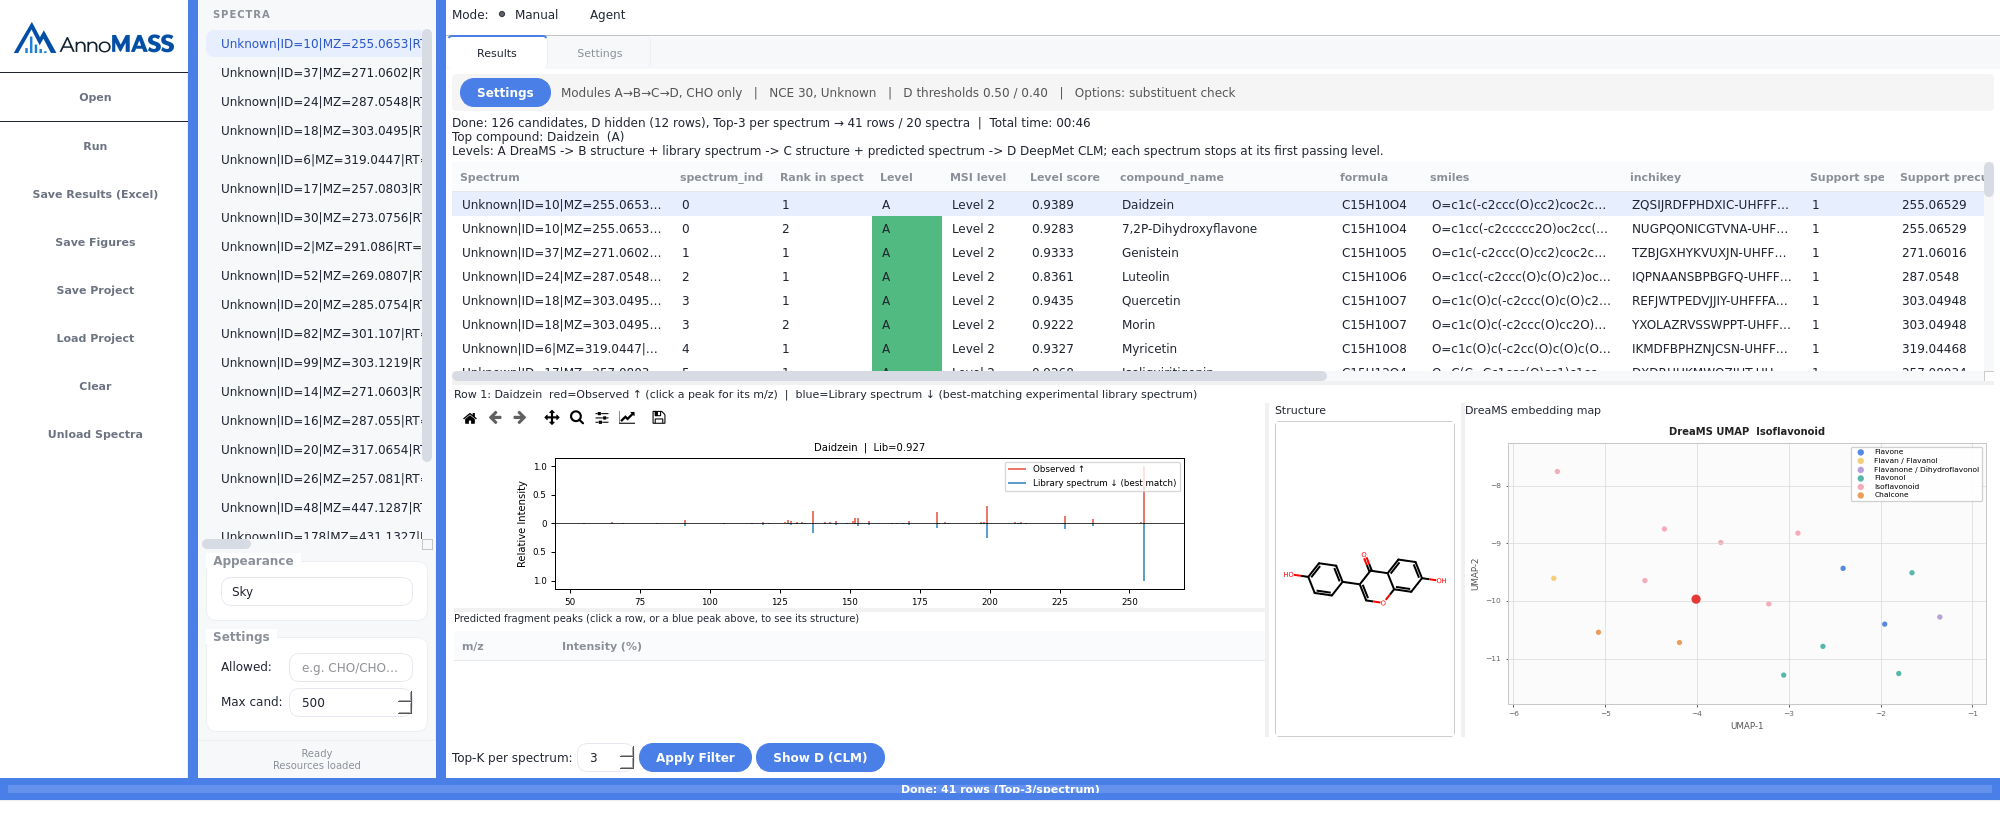
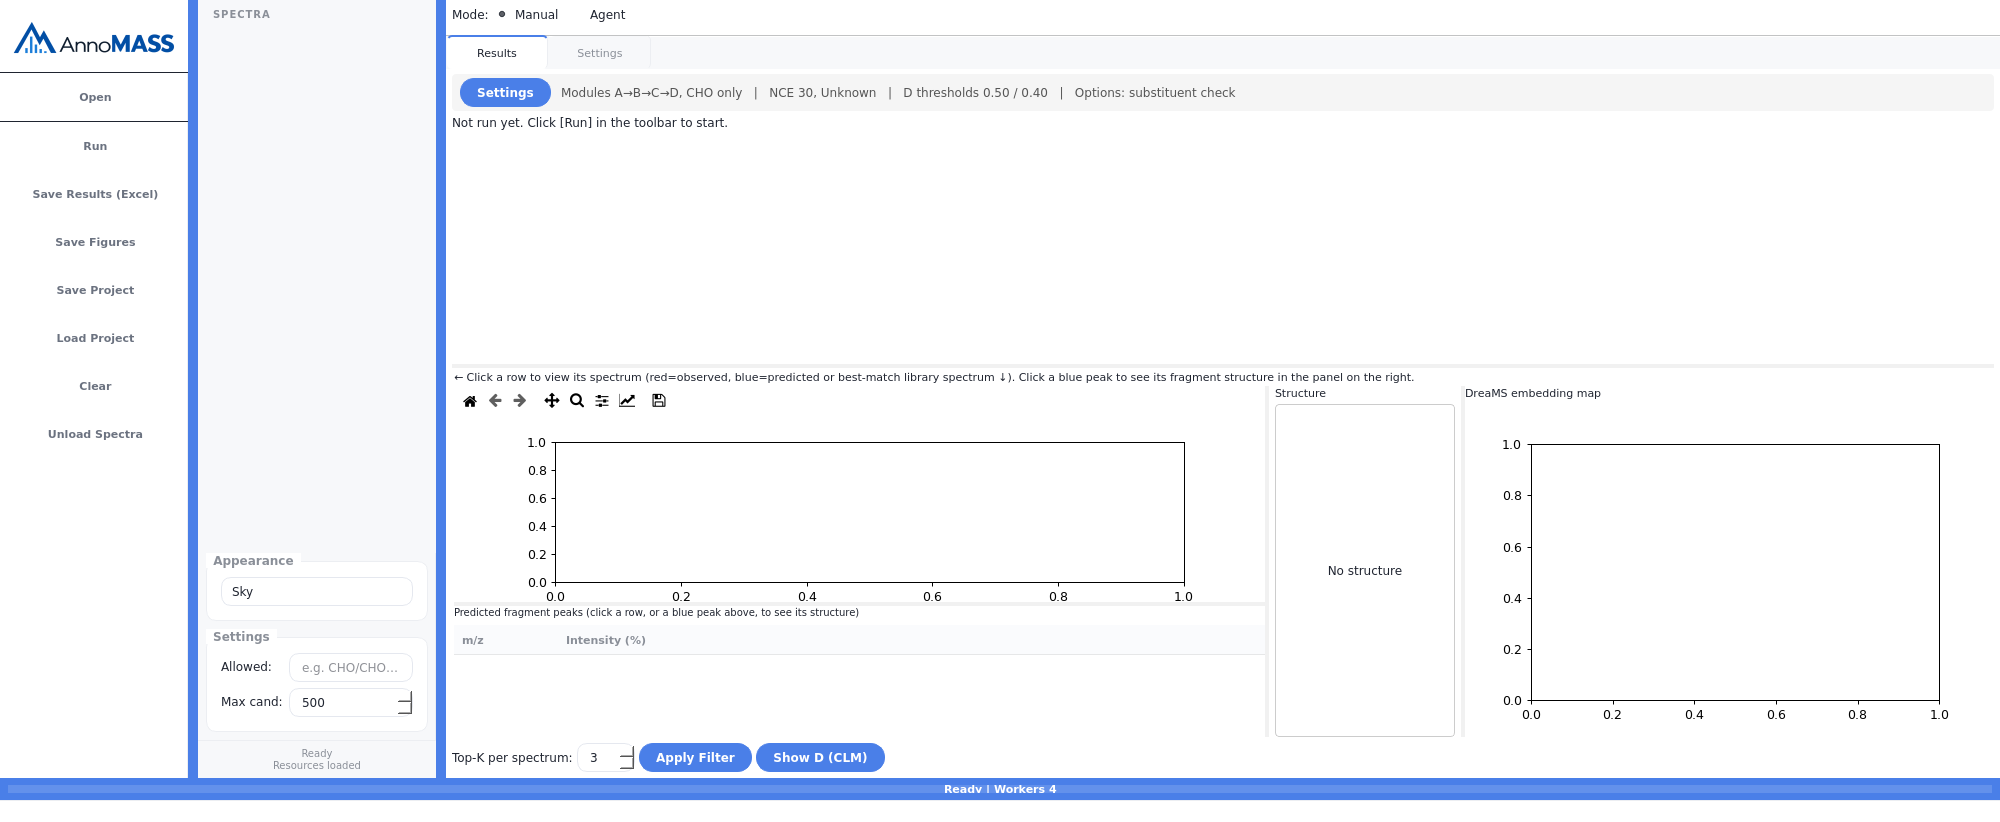
GUI screenshot: start-up window without data

diff --git a/docs_site/gui.md b/docs_site/gui.md
@@ -7,7 +7,7 @@ description: Step-by-step tutorial for the AnnoMASS desktop GUI. Load spectra, c
 The GUI is the easiest way to look at results in detail: spectra, structures, predicted
 fragments and the evidence behind each candidate.
 
-![AnnoMASS desktop GUI: result table, spectrum comparison, structure and spectral-embedding map](assets/screenshots/gui.png)
+![AnnoMASS desktop GUI after start-up](assets/screenshots/gui.png)
 
 ## Start the GUI
 
